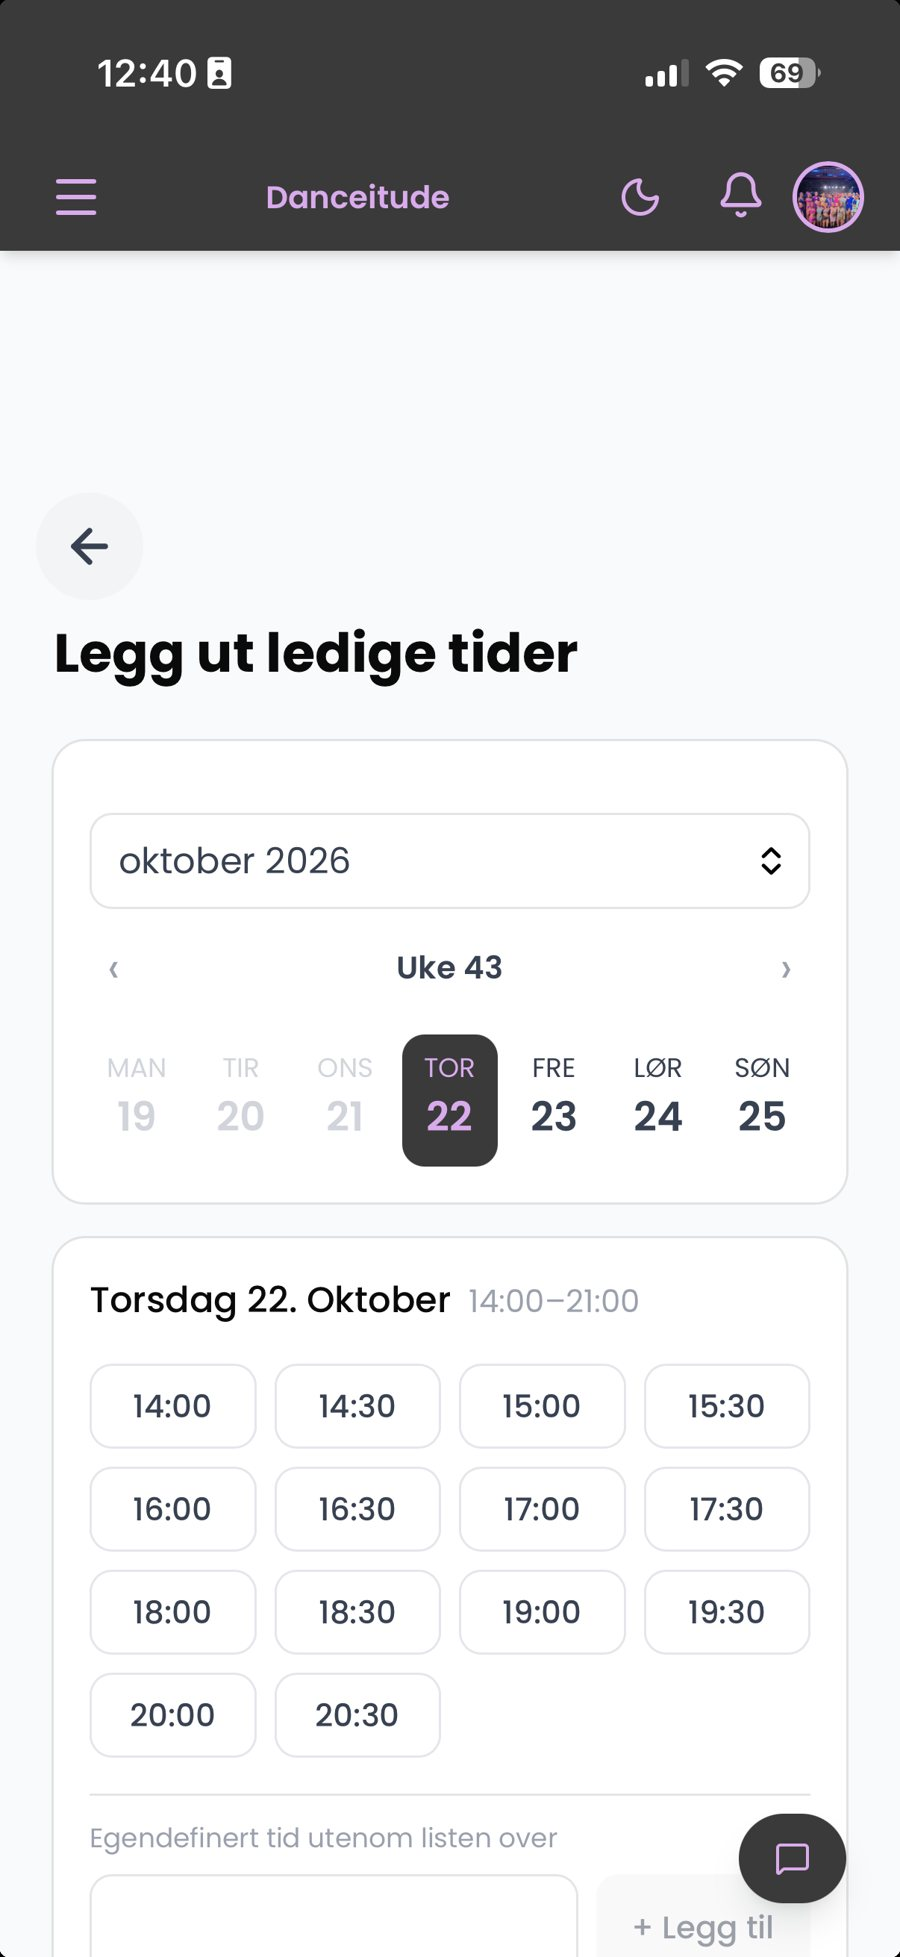
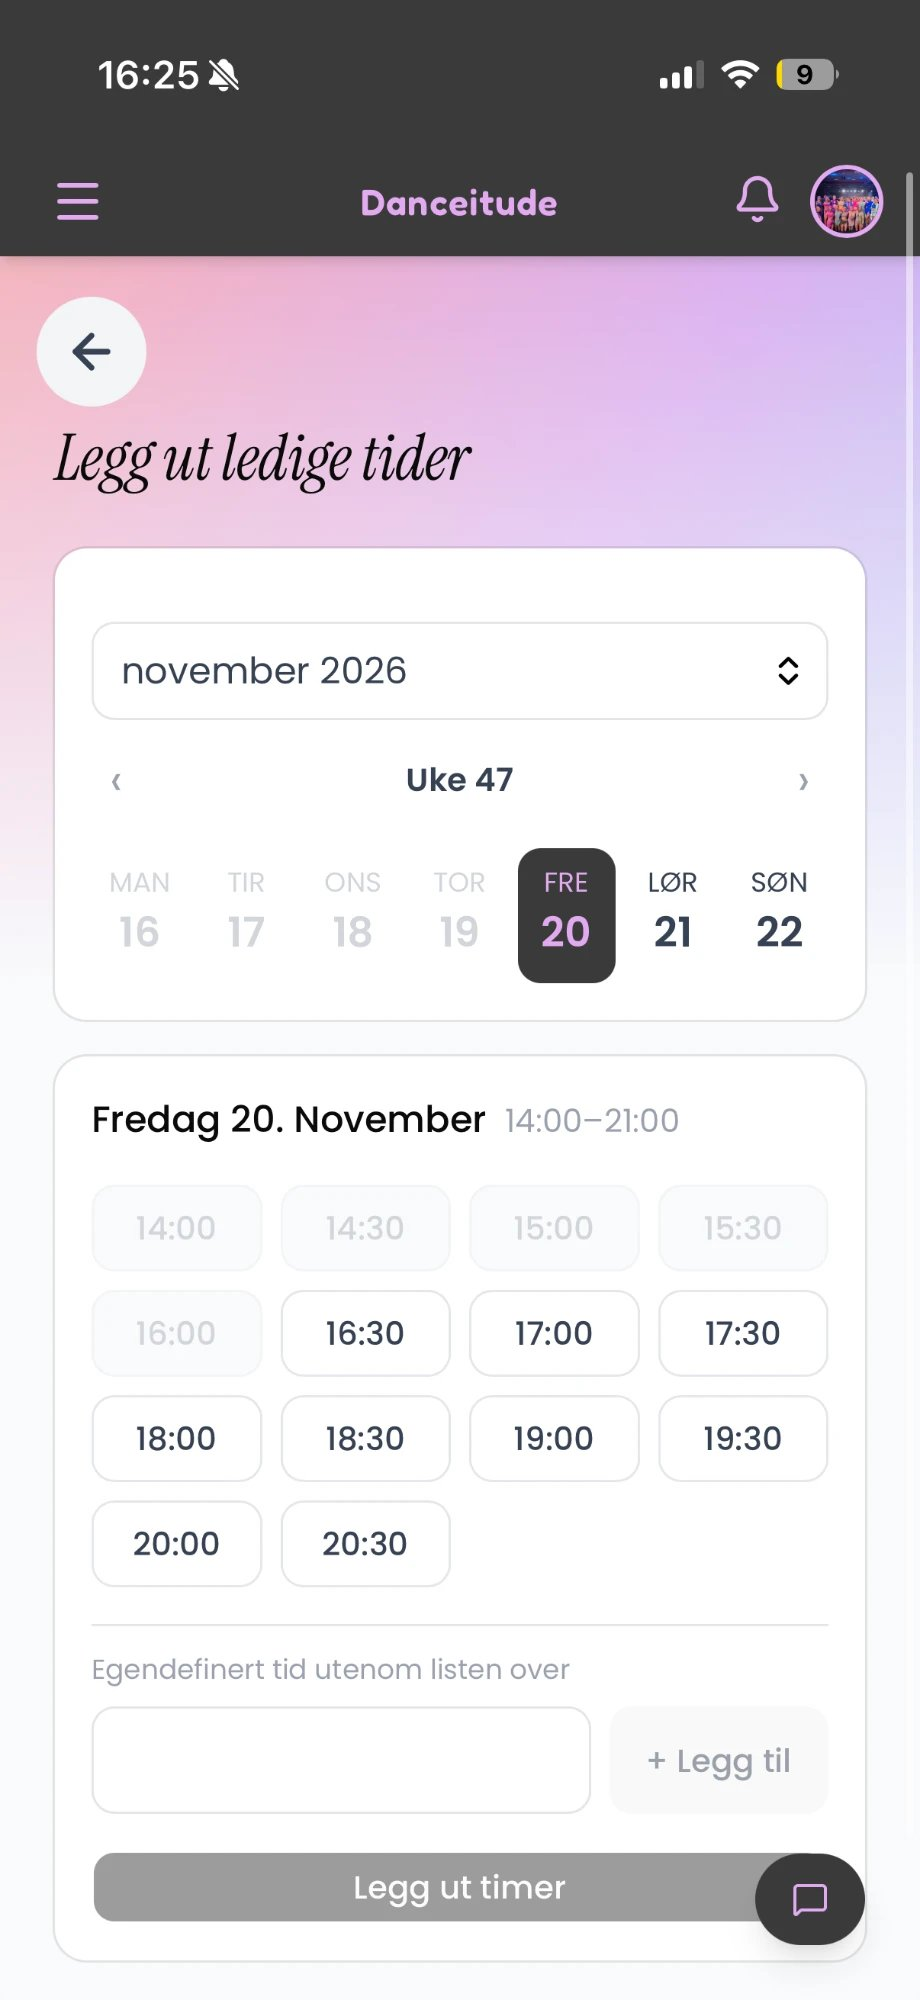
Nye skjermbilder fra Danceitude med navn skjult
Ny trenerforside og visning for å legge ut tider, og ny historikkvisning
med betaling og purring på kvittering.

diff --git a/danceitude.html b/danceitude.html
@@ -52,7 +52,7 @@
           </div>
         </div>
           <figure class="di-telefon di-stor">
-            <div class="di-ramme"><img src="bilder/danceitude/trener-forside.jpg" alt="Trenerens forside i Danceitude: nedtelling til neste konkurranse, knapp for å legge ut tid og ledige timer"></div>
+            <div class="di-ramme"><img src="bilder/danceitude/trener-forside.jpg?v=2" alt="Trenerens forside i Danceitude: nedtelling til neste konkurranse, knapp for å legge ut tid og ledige timer"></div>
           </figure>
       </div>
       <section class="di-del di-problem">
@@ -135,6 +135,7 @@
               <li>Legg ut ledige tider for én eller flere dager samtidig</li>
               <li>Book timer direkte for dansere</li>
               <li>Søk opp dansere og se historikk</li>
+              <li>Marker timer som betalt og purr på kvittering</li>
               <li>Varsel ved nye bookinger og avbestillinger</li>
             </ul>
           </div>
@@ -145,12 +146,12 @@
             <figcaption>Danser: neste konkurranse og egne timer</figcaption>
           </figure>
           <figure class="di-telefon ">
-            <div class="di-ramme"><img src="bilder/danceitude/legg-ut-tider.jpg" alt="Treneren legger ut ledige tider i en kalender" loading="lazy"></div>
+            <div class="di-ramme"><img src="bilder/danceitude/legg-ut-tider.jpg?v=2" alt="Treneren velger dag i ukevisningen og legger ut ledige tider, med mulighet for egendefinert tid" loading="lazy"></div>
             <figcaption>Trener: legg ut ledige tider</figcaption>
           </figure>
           <figure class="di-telefon ">
-            <div class="di-ramme"><img src="bilder/danceitude-app.jpg" alt="Trenerens oversikt over bookede timer med mulighet til å avbestille" loading="lazy"></div>
-            <figcaption>Trener: bookinger og avbestilling</figcaption>
+            <div class="di-ramme"><img src="bilder/danceitude/historikk-betaling.jpg" alt="Trenerens oversikt over gjennomførte privattimer med søk etter danser, status, knapp for å markere som betalt og purring på kvittering" loading="lazy"></div>
+            <figcaption>Trener: historikk, betaling og purring</figcaption>
           </figure>
           <figure class="di-telefon ">
             <div class="di-ramme"><img src="bilder/danceitude/poeng-og-nivaer.jpg" alt="Poeng og nivåer i freestyle og slow" loading="lazy"></div>

diff --git a/index.html b/index.html
@@ -44,7 +44,7 @@
     </div>
     <div class="hero-enheter" aria-hidden="true">
       <div class="telefon telefon-bak"><img src="bilder/mytalent-explore.jpg" alt=""><span class="telefon-navn">MyTalent</span></div>
-      <div class="telefon telefon-foran"><img src="bilder/danceitude-app.jpg" alt=""><span class="telefon-navn">Danceitude</span></div>
+      <div class="telefon telefon-foran"><img src="bilder/danceitude/trener-forside.jpg?v=2" alt=""><span class="telefon-navn">Danceitude</span></div>
     </div>
   </div>
   <a class="utforsk" href="#arbeid">Utforsk</a>
@@ -67,7 +67,7 @@
         </span>
       </div>
       <a class="prosjekt" href="danceitude.html">
-        <div class="prosjekt-bilde pb-danceitude"><img src="bilder/danceitude/trener-forside.jpg" alt="" loading="lazy"></div>
+        <div class="prosjekt-bilde pb-danceitude"><img src="bilder/danceitude/trener-forside.jpg?v=2" alt="" loading="lazy"></div>
         <h3>Danceitude – fra behov til produkt i bruk</h3>
         <p>Bookingapp for danseklubber: fra problemet i Google Docs til brukerroller, bookingflyt og videreutvikling etter tilbakemeldinger. 200 brukere.</p>
         <span class="prosjekt-tags">Eget produkt · Mobilapp · Brukertesting</span>
